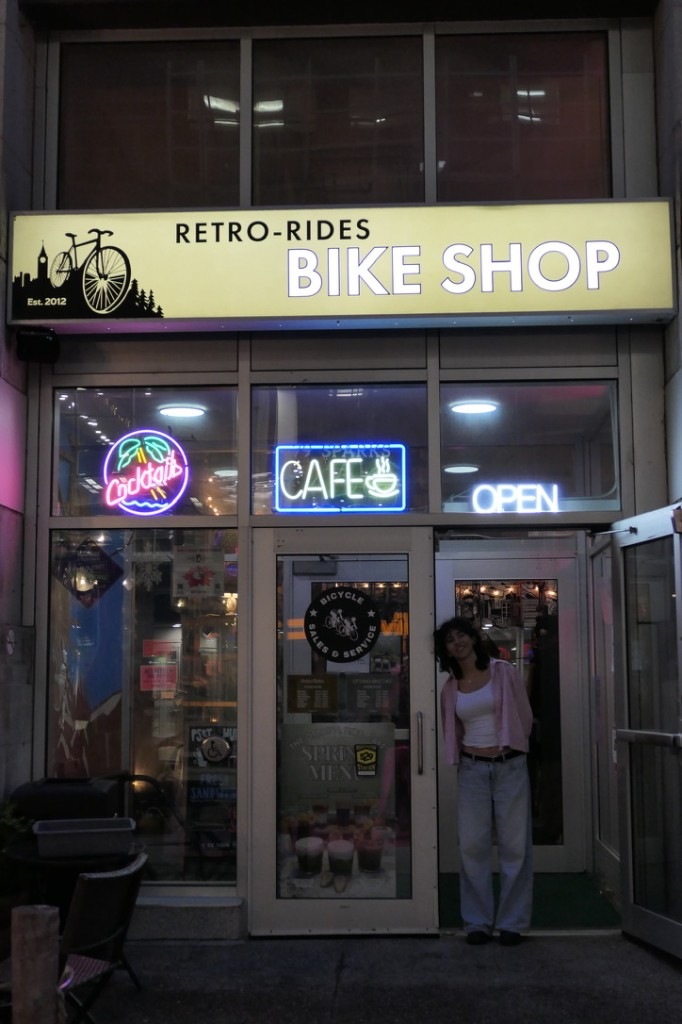
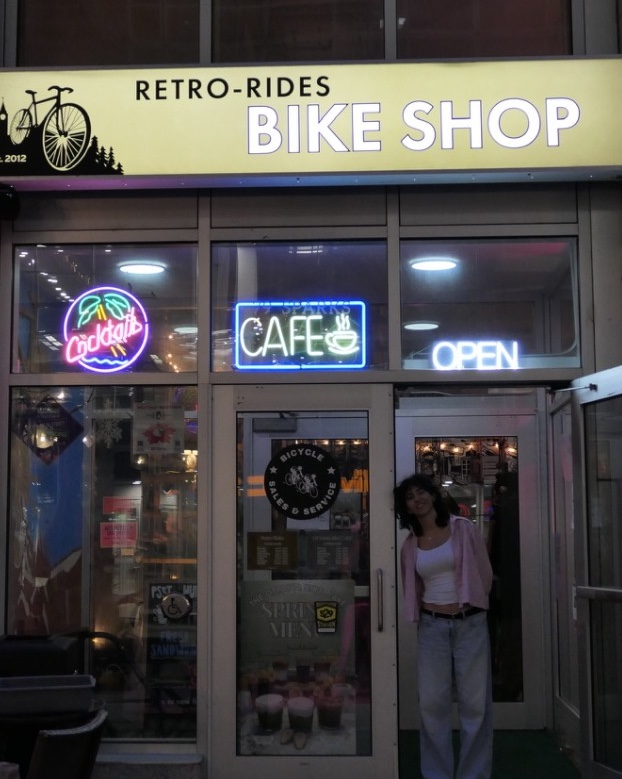
pic

diff --git a/src/data/about.ts b/src/data/about.ts
@@ -68,7 +68,7 @@ export const awards: Award[] = [
     detail: "$1,500",
   },
   {
-    title: "1st Place Team in SEG2900 2023 Engineering Pitch Competition",
+    title: "1st Place Team in SEG2900 2023 Pitch Competition",
   },
 ];
 

diff --git a/src/app/wii.css b/src/app/wii.css
@@ -704,7 +704,7 @@
 }
 
 .wii-thumb-me[data-hot="true"] .wii-thumb-me__avatar-wrap {
-  top: 10%;
+  top: 13%;
 }
 
 .wii-thumb-me__avatar {
